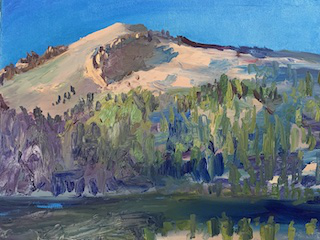
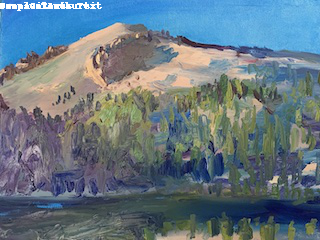
test run

Changed region(s): [[0.0, 0.0, 0.3125, 0.0583]]

diff --git a/images.py b/images.py
@@ -20,12 +20,12 @@ def image_formatter(img, img_type):
 def image_data(path="static/assets/", img_list=None):  # path of static images is defaulted
     if img_list is None:  # color_dict is defined with defaults
         img_list = [
-         {'source': "Peter Carolin", 'label': "Lassen Volcano", 'file': "lassen-volcano-256.png"},
-         {'source': "iconsdb.com", 'label': "Black square", 'file': "black-square-16.png"},
-         {'source': "iconsdb.com", 'label': "Red square", 'file': "red-square-16.png"},
-         {'source': "iconsdb.com", 'label': "Green square", 'file': "green-square-16.png"},
-         {'source': "iconsdb.com", 'label': "Blue square", 'file': "blue-square-16.png"},
-         {'source': "iconsdb.com", 'label': "White square", 'file': "white-square-16.png"},
+            {'source': "Peter Carolin", 'label': "Lassen Volcano", 'file': "lassen-volcano-256.png"},
+            {'source': "iconsdb.com", 'label': "Black square", 'file': "black-square-16.png"},
+            {'source': "iconsdb.com", 'label': "Red square", 'file': "red-square-16.png"},
+            {'source': "iconsdb.com", 'label': "Green square", 'file': "green-square-16.png"},
+            {'source': "iconsdb.com", 'label': "Blue square", 'file': "blue-square-16.png"},
+            {'source': "iconsdb.com", 'label': "White square", 'file': "white-square-16.png"},
         ]
     # gather analysis data and meta data for each image, adding attributes to each row in table
     for img_dict in img_list:
@@ -63,6 +63,16 @@ def image_data(path="static/assets/", img_list=None):  # path of static images i
         img_reference.putdata(img_dict['gray_data'])
         img_dict['base64_GRAY'] = image_formatter(img_reference, img_dict['format'])
     return img_list  # list is returned with all the attributes for each image dictionary
+
+
+def draw_text_in_image(text):
+    # from PIL import Image, ImageFont, ImageDraw
+    #
+    img = Image.open("static/assets/lassen-volcano-256.png")
+    d1 = ImageDraw.Draw(img)
+    d1.text((0, 0), text)
+    # img.show()
+    img.save("static/assets/lassen-volcano-256.png")
 
 
 # run this as standalone tester to see data printed in terminal

diff --git a/main.py b/main.py
@@ -1,6 +1,6 @@
 # import "packages" from flask
 from flask import Flask, render_template, request
-from images import image_data
+from images import image_data, draw_text_in_image
 
 # create a Flask instance
 app = Flask(__name__)
@@ -50,6 +50,7 @@ def home():
 
 @app.route('/rgbpranavi/')
 def rgbpranavi():
+    draw_text_in_image("Team Color's Text")
     return render_template("rgb_pranavi.html", images=image_data())
 
 
